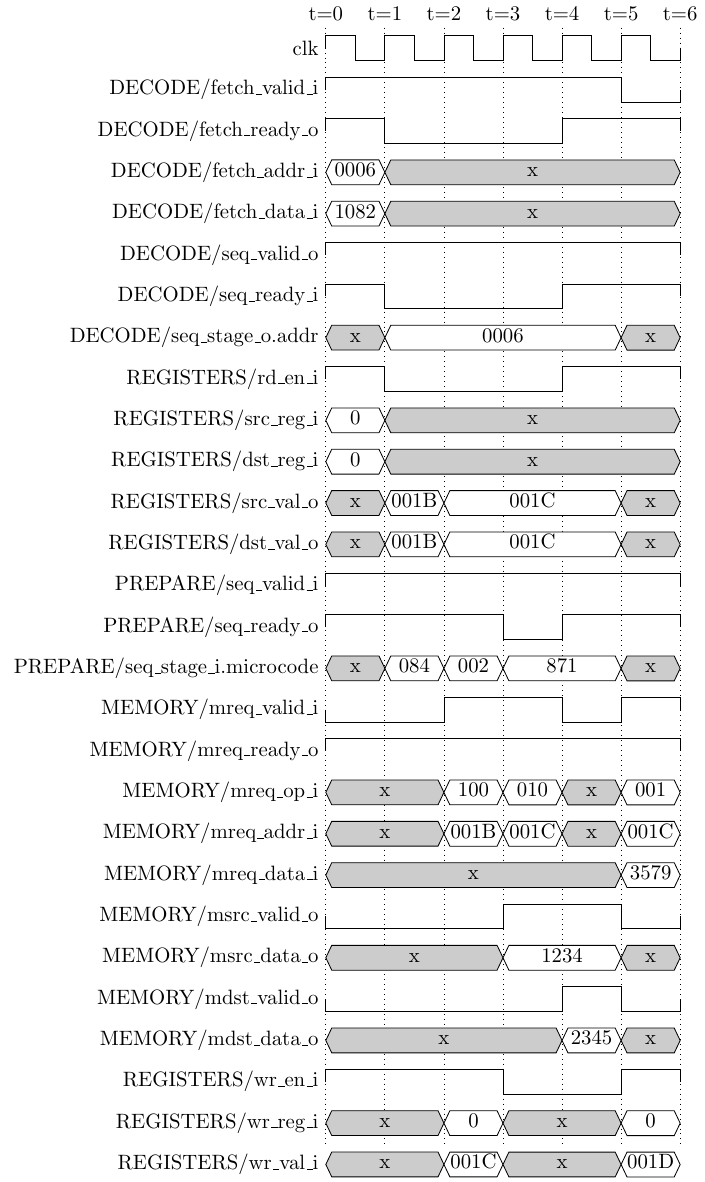
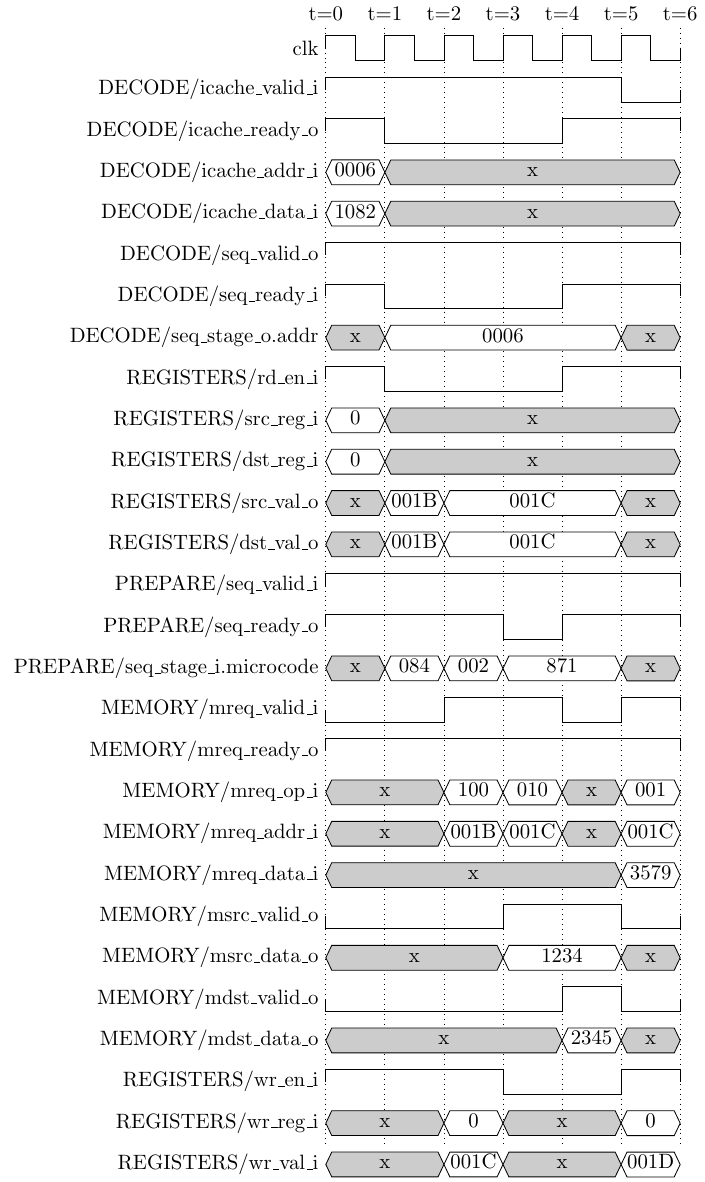
decode: Rename the fetch_* ports to icache_*
DECODE's instruction input comes from ICACHE, not directly from FETCH, so
name the six ports on that interface after the block that actually drives
them: fetch_valid_i, fetch_ready_o, fetch_double_i, fetch_addr_i,
fetch_data_i, fetch_double_o become icache_*.

WRITE's fetch_valid_o/fetch_addr_o keep their names: those are the redirect
back to FETCH, and it really is FETCH they go to.

Renamed in decode.vhd, in cpu_main.vhd (entity ports and the i_decode port
map), and in cpu.vhd's i_cpu_main port map, where the actuals were already
called icache2decode_*. formal/cpu_main.psl follows, as do both GTKWave save
files, which reference signals by full path and would otherwise silently drop
those rows.

Documentation updated with it: the interface section in src/cpu_main/README.md
(now "From ICACHE to DECODE"), the back-pressure walkthrough in doc/README.md,
the wrapped-condition example in CODING_STYLE.md (which quotes decode.vhd),
and the pipeline timing diagram, re-rendered from timing.tex.

make test passes all 10 programs, sby bmc+cover on cpu_main passes, and
make lint is clean.

Claude-Session: https://claude.ai/code/session_01Cri8xvUCfDrX7Qhx2SyGvg

Changed region(s): [[0.1248, 0.0609, 0.3745, 0.1827]]

diff --git a/src/cpu_main/timing.tex b/src/cpu_main/timing.tex
@@ -12,10 +12,10 @@
 % low, or whenever they belong to a neighbouring instruction rather than to the
 % ADD being followed here.
 \begin{wave}{27}{6}
- \nextwave{DECODE/fetch\_valid\_i}           \bit{1}{5} \bit{0}{1}
- \nextwave{DECODE/fetch\_ready\_o}           \bit{1}{1} \bit{0}{3} \bit{1}{2}
- \nextwave{DECODE/fetch\_addr\_i}            \known{0006}{1} \unknown[x]{5}
- \nextwave{DECODE/fetch\_data\_i}            \known{1082}{1} \unknown[x]{5}
+ \nextwave{DECODE/icache\_valid\_i}          \bit{1}{5} \bit{0}{1}
+ \nextwave{DECODE/icache\_ready\_o}          \bit{1}{1} \bit{0}{3} \bit{1}{2}
+ \nextwave{DECODE/icache\_addr\_i}           \known{0006}{1} \unknown[x]{5}
+ \nextwave{DECODE/icache\_data\_i}           \known{1082}{1} \unknown[x]{5}
  \nextwave{DECODE/seq\_valid\_o}             \bit{1}{6}
  \nextwave{DECODE/seq\_ready\_i}             \bit{1}{1} \bit{0}{3} \bit{1}{2}
  \nextwave{DECODE/seq\_stage\_o.addr}        \unknown[x]{1} \known{0006}{4} \unknown[x]{1}

diff --git a/src/cpu_main/README.md b/src/cpu_main/README.md
@@ -282,19 +282,19 @@ simulation run; `make diagrams` regenerates `timing.png` from it.
 In the following I'll describe in detail the interfaces to the various
 surrounding blocks.
 
-### From FETCH to DECODE
+### From ICACHE to DECODE
 ```
-fetch_valid_i  : in  std_logic;
-fetch_ready_o  : out std_logic;
-fetch_double_i : in  std_logic;
-fetch_addr_i   : in  std_logic_vector(15 downto 0);
-fetch_data_i   : in  std_logic_vector(31 downto 0);
-fetch_double_o : out std_logic;
+icache_valid_i  : in  std_logic;
+icache_ready_o  : out std_logic;
+icache_double_i : in  std_logic;
+icache_addr_i   : in  std_logic_vector(15 downto 0);
+icache_data_i   : in  std_logic_vector(31 downto 0);
+icache_double_o : out std_logic;
 ```
-This AXI-interface accepts one or two words from FETCH. The signal
-`fetch_double_i` from FETCH indicates whether the signal `fetch_data_i`
-contains one or two words. Correspondingly, the signal `fetch_double_o` back to
-FETCH indicates whether we wish to consume one or two words.
+This AXI-interface accepts one or two words from ICACHE. The signal
+`icache_double_i` from ICACHE indicates whether the signal `icache_data_i`
+contains one or two words. Correspondingly, the signal `icache_double_o` back to
+ICACHE indicates whether we wish to consume one or two words.
 
 The idea behind this is that some instructions contain an immediate operand.
 Transferring two words (i.e. instruction and immediate operand) simultaneously
@@ -304,7 +304,7 @@ resulting in higher performance.
 
 The instruction is always present in bits 15-0 and any immediate operand (or
 possibly the next instruction) is optionally present in bits 31-16. The signal
-`fetch_addr_i` contains the address (i.e. Program Counter) of the instruction.
+`icache_addr_i` contains the address (i.e. Program Counter) of the instruction.
 
 It is here worth noting that even though REGISTERS contains all the CPU
 registers, the Program Counter (`R15`) is instead stored in FETCH and forwarded
@@ -896,7 +896,7 @@ outgoing bank by the time the switch retires in WRITE:
 | | Where it is | What its register read did | Remedy |
 |---|---|---|---|
 | I1 | DECODE's output register | Issued a cycle ago, against the old bank. SEQUENCER joins `src_reg_val`/`dst_reg_val` onto the record as *live* wires, so the values are already gone. | Flush. |
-| I2 | DECODE's input | Being issued in this very cycle, still against the old bank: `reg_sr` does not take the new value until this cycle's clock edge. But nothing has accepted it yet. | Hold `fetch_ready_o` low for one cycle, so it reads again from the new bank. |
+| I2 | DECODE's input | Being issued in this very cycle, still against the old bank: `reg_sr` does not take the new value until this cycle's clock edge. But nothing has accepted it yet. | Hold `icache_ready_o` low for one cycle, so it reads again from the new bank. |
 
 Anything further back issues its read at least one cycle from now and picks up
 the new bank by itself, which is why the list stops at two.
@@ -1056,7 +1056,7 @@ The assertions fall into four groups:
   register consumes a banked value, `fetch_valid_o` must assert.
   `f_hold_on_bank_change` is the same requirement one stage further back, where
   refusing the instruction is an alternative to flushing it: on such a cycle,
-  DECODE must either flush or hold `fetch_ready_o` low. Both derive "consumes a
+  DECODE must either flush or hold `icache_ready_o` low. Both derive "consumes a
   banked value" from the raw instruction encoding rather than from `uses_bank`,
   which is the signal under test, so they check the over-approximation instead
   of restating it — sabotaging either half of `uses_bank` fails one of them.

diff --git a/doc/README.md b/doc/README.md
@@ -415,7 +415,7 @@ because it runs backwards through four modules:
    until the device word arrives at t=6. `seq_ready_i` is therefore low for
    *two* cycles, t=4 and t=5, rather than one.
 3. DECODE cannot accept a new instruction while SEQUENCER is holding it, so it
-   leaves its `fetch_ready_o` low at t=4 and t=5. That is the row drawn as
+   leaves its `icache_ready_o` low at t=4 and t=5. That is the row drawn as
    `ICACHE/m_ready_i`: the two are the same net, seen from ICACHE's side.
 4. ICACHE buffers two words, and by t=5 it is holding both — the `AND` and its
    immediate operand (`m_addr_o` = `0x0006`, `m_double_o` high). Nothing is

diff --git a/CODING_STYLE.md b/CODING_STYLE.md
@@ -173,8 +173,8 @@ the *register* file, the Status *Register*.
 
   ```vhdl
      immediate_src <= has_src_operand when
-                      fetch_data_i(R_SRC_REG)  = C_REG_PC and
-                      fetch_data_i(R_SRC_MODE) = C_MODE_POST else
+                      icache_data_i(R_SRC_REG)  = C_REG_PC and
+                      icache_data_i(R_SRC_MODE) = C_MODE_POST else
                       '0';
   ```
 
